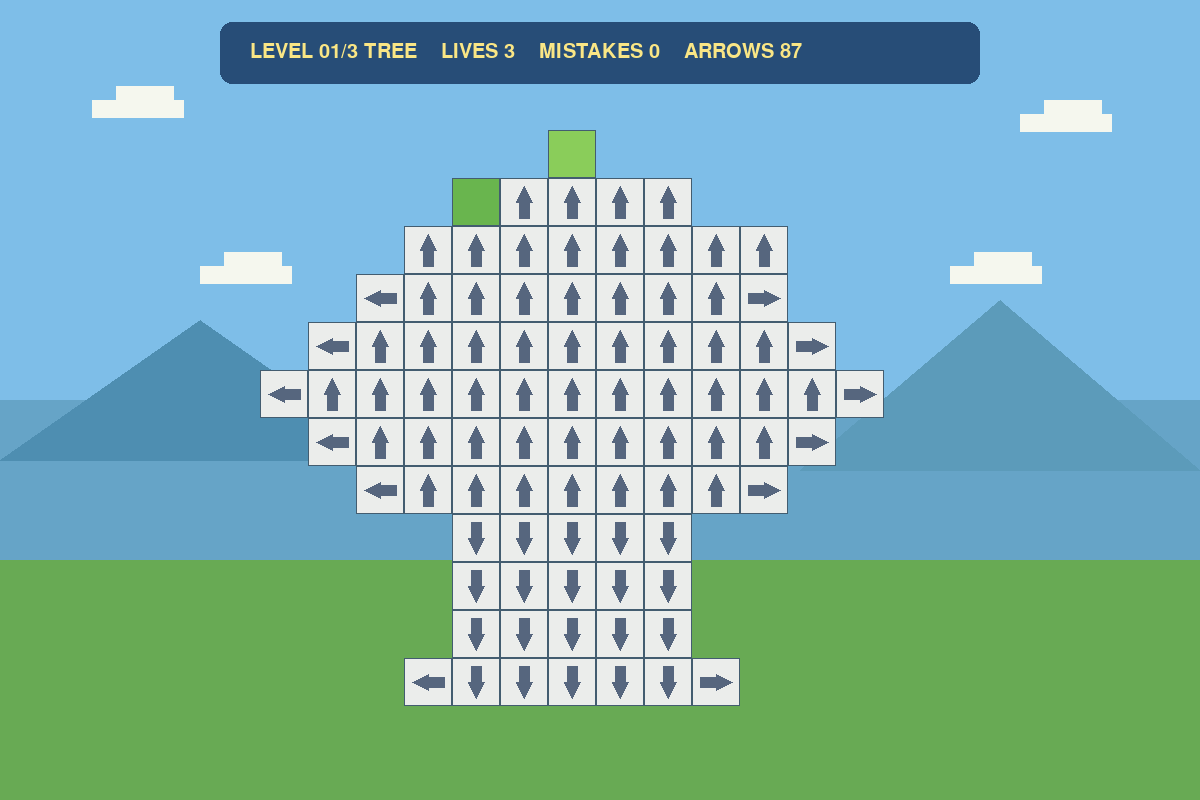
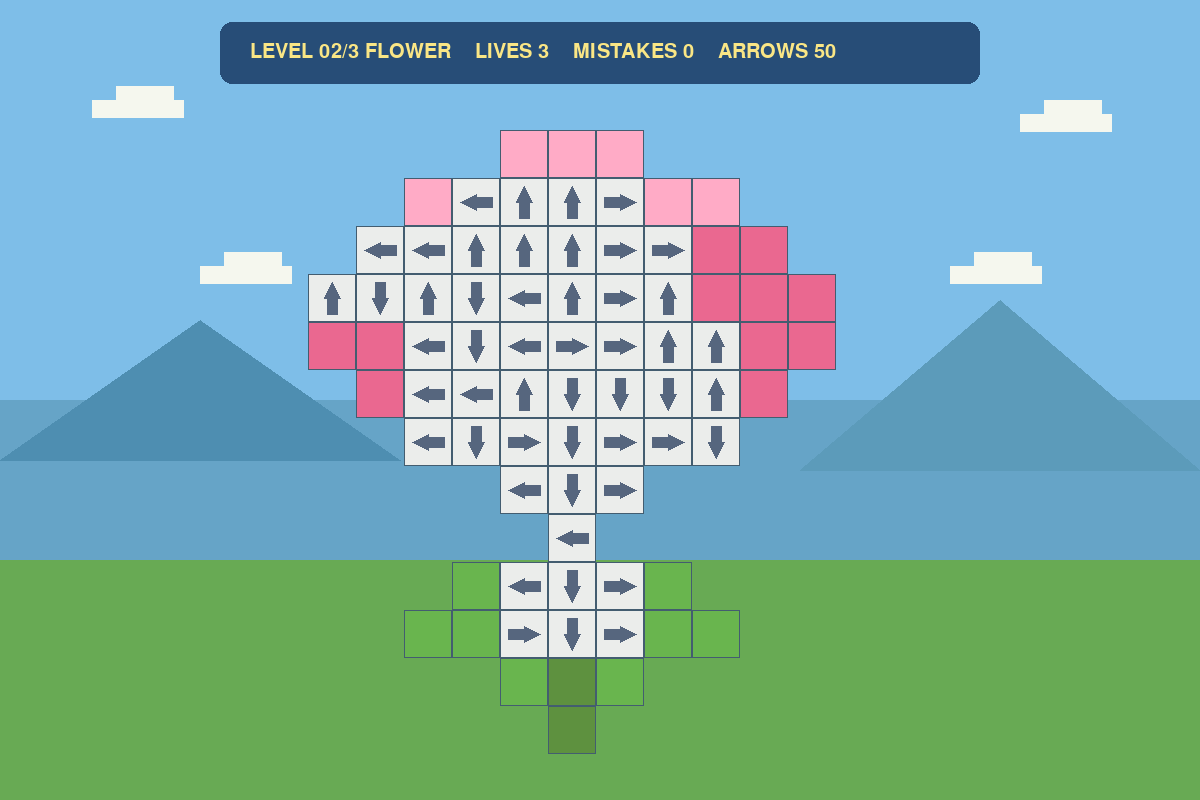
docs: showcase redesigned course levels

Changed region(s): [[0.2158, 0.1562, 0.74, 0.9688], [0.2775, 0.0312, 0.7092, 0.0938]]

diff --git a/docs/course-report.md b/docs/course-report.md
@@ -12,7 +12,7 @@
 
 ## 1. 项目展示
 
-项目启动后先显示开始界面，点击 `START GAME` 进入第一关。游戏窗口为 1200×800，中心区域是带隐藏像素颜色的箭头图案。成功点击后，箭头沿方向飞出窗口；被阻挡时箭头移动到首个阻挡箭头、撞击变红并回退。
+项目启动后先显示带装饰箭头棋盘的主界面，点击唯一的 `START GAME` 按钮进入第一关。游戏窗口为 1200×800，中心区域是带隐藏像素颜色的箭头图案；第二、三关分别是 13×13 的大花朵和太阳。成功点击后，箭头沿方向飞出窗口；被阻挡时箭头移动到首个阻挡箭头、撞击变红并回退。
 
 ![游戏运行截图](assets/runtime-gameplay.png)
 
@@ -25,7 +25,7 @@
 
 玩家每次点击一个箭头，程序检查它沿自身方向到棋盘边界之间的同行或同列位置。如果没有其他箭头，Board 立即把它标记为已清除，Game 创建飞出动画；如果存在其他箭头，Board 返回首个 blocker，Game 立即扣除一次失误机会，CollisionAnimation 负责撞击、变红和回退。
 
-项目包含 TREE、FLOWER、SUN 三个关卡。每个关卡由二维网格和颜色网格表示：`U/D/L/R` 是四种方向箭头，`.` 是已露出的像素位置，`None` 是图案外背景。箭头清除后，原位置显示颜色网格中的树叶、树干、草地或花朵颜色。
+项目包含 TREE、FLOWER、SUN 三个关卡。每个关卡由二维网格和颜色网格表示：`U/D/L/R` 是四种方向箭头，`.` 是已露出的像素位置，`None` 是图案外背景。箭头清除后，原位置显示颜色网格中的树叶、树干、草地、花瓣或阳光颜色。花朵和太阳的箭头方向在开发阶段通过固定种子生成并验证后复制为常量，因此每次启动布局相同，不会因随机生成而出现不可解关卡。
 
 主要模块如下：
 
@@ -33,6 +33,7 @@
 - `src/game.py`：负责生命值、失误次数、开始状态、关卡索引、通关和重开；
 - `src/animation.py`：不依赖 Pygame 的飞出和碰撞时间模型；
 - `src/ui.py`：负责背景、棋盘、HUD、开始/结果面板和坐标映射；
+- `src/level_generator.py`：仅用于开发与测试；根据颜色掩码生成可解方向布局及其验证顺序，运行时不调用；
 - `main.py`：负责 Pygame 初始化、事件分发、更新和绘制。
 
 ## 3. 实现思路
@@ -40,6 +41,8 @@
 路径检测从点击位置沿方向增量遍历：向上使用 `(-1, 0)`，向下使用 `(1, 0)`，向左使用 `(0, -1)`，向右使用 `(0, 1)`。遇到第一个箭头就返回 `blocked` 和 blocker 坐标；越过棋盘边界仍未找到箭头则返回 `clear`。
 
 逻辑判定和动画分离。点击成功时 Board 立即清除箭头，因此动画期间仍可以点击其他合法箭头；碰撞动画期间原箭头仍在 Board 中，只有动画结束时才把起点加入 `error_cells`，保证“撞击后变红，回退后保持红色”的时间顺序。
+
+大关卡的设计采用“先确定图案、再冻结布局”的方式：先用花朵或太阳的颜色掩码确定可见轮廓；生成工具在仍存在的箭头中随机选择一条无阻挡射线，把该坐标加入清除顺序并记录方向。重复到所有格子被选中后，得到的顺序天然可通关。工具使用固定种子保证可复现，最终的箭头网格和通关顺序都写入 `levels.py` 常量，避免把随机性带进游戏运行时。
 
 ## 4. AIGC 使用过程
 
@@ -50,7 +53,7 @@
 | 需求分析与界面方向 | ChatGPT/Codex + 图像生成参考 | 将“箭头遮罩逐渐揭开像素图”的想法整理为窗口布局、颜色层级和交互状态 | 初始方案直接进入关卡，后来根据课程要求补充开始界面；保留几何绘制，不复制商业素材 |
 | 路径检测、Game 分层和测试设计 | Codex | 设计 Board/Game/Animation/UI 分层，生成方向检测和状态转换测试 | 人工核对边界、非法点击、重复点击和生命值归零；增加独立关卡工厂测试 |
 | 飞出动画 Bug 调试 | ChatGPT/Codex | 根据试玩反馈追踪 Board 清除、Game 动画列表和 UI 绘制之间的数据流 | 发现飞出距离固定为 2 格导致箭头突然消失；先写失败回归测试，再改为越过 1200×800 窗口边界的方向距离 |
-| 关卡设计与可通关验证 | Codex | 生成树、花朵和太阳的网格数据与测试结构 | 人工调整颜色掩码，并加入顺序清除验证；每个关卡实际由测试逐步清空 |
+| 关卡设计与可通关验证 | Codex | 根据花朵、太阳颜色掩码生成固定方向布局和验证顺序 | 初版布局方向过于整齐；人工要求改为大图案和更分散的方向，随后固定种子结果并加入逐步清空测试 |
 
 ## 5. 测试结果
 
@@ -61,7 +64,7 @@ python -m pytest -v
 python -m compileall -q main.py src tests
 ```
 
-当前结果：**101 passed**；编译检查通过；Pygame 主循环在 dummy SDL 环境下可以正常启动、绘制并响应退出事件。
+当前结果：**107 passed**；编译检查通过；Pygame 主循环在 dummy SDL 环境下可以正常启动、绘制并响应退出事件。
 
 | 编号 | 测试内容 | 预期结果 | 实际结果 | 是否通过 |
 | --- | --- | --- | --- | --- |
@@ -71,6 +74,7 @@ python -m compileall -q main.py src tests
 | T04 | 清除本关全部箭头 | 显示通关并进入下一关 | 三关工厂和 `next_level()` 测试通过 | 通过 |
 | T05 | 失误次数耗尽 | 显示失败并允许重开 | `FAILED` 状态拒绝普通点击，结果按钮重开，测试通过 | 通过 |
 | T06 | 游戏进行中重新开始 | 棋盘和失误次数恢复 | `restart()` 清空动画/错误标记并恢复关卡，测试通过 | 通过 |
+| T07 | 花朵、太阳固定布局 | 每次启动方向相同且存在通关顺序 | 固定种子复算、已冻结顺序逐步清空，测试通过 | 通过 |
 
 ## 6. PSP 表格
 

diff --git a/docs/superpowers/specs/2026-09-19-fixed-art-levels-main-menu-design.md b/docs/superpowers/specs/2026-09-19-fixed-art-levels-main-menu-design.md
@@ -8,22 +8,22 @@
 
 运行时不做随机生成。每个关卡的图案轮廓、颜色和箭头方向都固定在 `src/levels.py` 中，因此同一关卡在开始、重开和不同电脑上保持一致。
 
-方向布局在开发阶段通过确定性生成器产生：每个关卡使用固定 seed 和既定像素掩码。生成器只产出上、下、左、右单格箭头，并在生成完成后使用求解器验证：
+方向布局在开发阶段通过确定性生成器产生：每个关卡使用固定 seed 和既定像素掩码。生成器只产出上、下、左、右单格箭头，并同时记录一条完整清除顺序：
 
 - 每个有效格要么是箭头，要么是已露出的 `"."` 像素；
 - 四个方向均至少出现一次；
 - 能够找到完整清除顺序；
 - 难度不依赖运气，重开后布局不变。
 
-验证通过的生成结果将被固化为元组常量。生产游戏只使用这些常量；生成器仅作为开发/测试工具，不参与玩家运行时逻辑。
+验证通过的方向网格和清除顺序将被固化为元组常量。生产游戏只使用方向网格；生成器和清除顺序仅作为开发/测试工具，不参与玩家运行时逻辑。
 
 ## 图案关卡
 
 关卡顺序保持 TREE → FLOWER → SUN：
 
 - TREE：保留现有 12×13 树形轮廓，作为第一关；
-- FLOWER：升级为约 11×11 花朵轮廓，包含浅色花瓣、深色花瓣、花心、茎和叶片；
-- SUN：升级为约 11×13 太阳与地平线轮廓，包含圆形太阳、八向放射光芒、天空和草地。
+- FLOWER：升级为 13×13 花朵轮廓，包含浅色花瓣、深色花瓣、花心、茎和叶片；
+- SUN：升级为 13×13 太阳与地平线轮廓，包含圆形太阳、八向放射光芒、天空和草地。
 
 每个图案至少有 50 个箭头，既保证视觉上像完整像素画，也让箭头方向排列有足够变化。颜色网格和箭头网格继续使用相同的 `None` 掩码。
 
@@ -41,7 +41,7 @@
 ```text
 固定 seed + 图案掩码（仅开发阶段）
   ↓
-求解器验证并冻结为 LEVEL 常量
+生成顺序验证并冻结为 LEVEL 常量
   ↓
 Game 从 LEVEL_FACTORIES 创建独立 Board
   ↓

diff --git a/README.md b/README.md
@@ -9,13 +9,14 @@
 
 ## 功能
 
-- 开始界面、游戏界面、通关/失败结果界面；
+- 带装饰箭头棋盘的主界面、游戏界面、通关/失败结果界面；
 - 上、下、左、右四种方向的单格箭头；
 - 同行/同列路径检测和边界判断；
 - 成功箭头飞出窗口的动画；
 - 阻挡箭头撞击、变红、回退并保留错误标记；
 - 三次失误机会，HUD 显示生命值、失误次数和剩余箭头；
-- 3 个可以正常通关的关卡：TREE、FLOWER、SUN；
+- 3 个可以正常通关的关卡：TREE、13×13 FLOWER、13×13 SUN；
+- 花朵、太阳关卡使用固定的像素画颜色掩码和已冻结的方向布局；布局在设计阶段由固定种子工具生成并验证，运行时不会随机变化；
 - 通关后进入下一关，失败后重开当前关，最终通关后可重新开始整局；
 - 无外部商业游戏代码、美术、音效或关卡资源。
 
@@ -46,7 +47,7 @@ python -m pytest -v
 python -m compileall -q main.py src tests
 ```
 
-当前自动化测试覆盖 Board 规则、四方向路径、三关可通关顺序、动画阶段、生命值、开始/通关/失败/重开、鼠标事件路由和 UI 布局。
+当前自动化测试（107 项）覆盖 Board 规则、四方向路径、三关可通关顺序、固定种子布局、动画阶段、生命值、开始/通关/失败/重开、鼠标事件路由和 UI 布局。
 
 ## 项目文档
 

diff --git a/docs/superpowers/plans/2026-09-19-fixed-art-levels-main-menu.md b/docs/superpowers/plans/2026-09-19-fixed-art-levels-main-menu.md
@@ -4,7 +4,7 @@
 
 **Goal:** Replace the small FLOWER/SUN levels with fixed, large, visually recognizable pixel-art puzzles whose varied arrow layouts are reproducibly generated and proven solvable, and upgrade the opening screen into a proper one-button main menu.
 
-**Architecture:** `src/level_generator.py` is a pure development/test utility: it constructs a solvable arrow layout in reverse removal order from a color mask and fixed seed. `src/levels.py` stores frozen tuple constants generated from that utility, so the runtime never varies. `UI` draws an art-directed main menu from existing primitive shapes; `Game` and Board rules remain unchanged.
+**Architecture:** `src/level_generator.py` is a pure development/test utility: it constructs a solvable arrow layout and its forward removal order from a color mask and fixed seed. `src/levels.py` stores frozen tuple constants generated from that utility, so the runtime never varies. `UI` draws an art-directed main menu from existing primitive shapes; `Game` and Board rules remain unchanged.
 
 **Tech Stack:** Python 3.10+, Pygame 2.6+, pytest 8+
 
